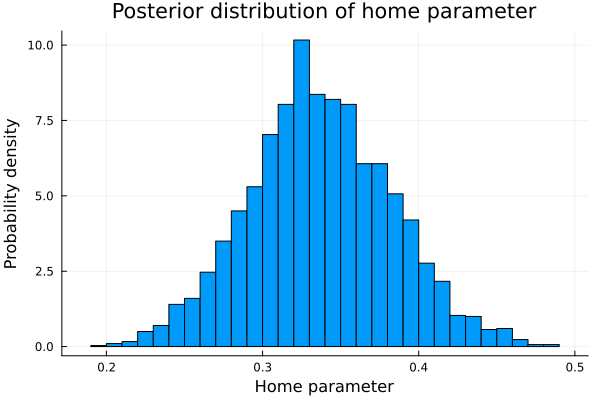
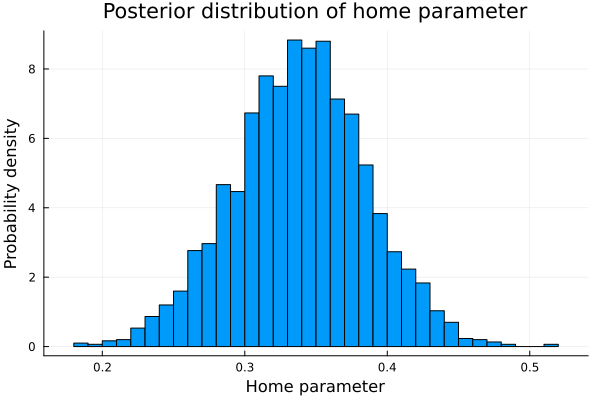
Resolve github issue #144

diff --git a/docs/football-simulation.html b/docs/football-simulation.html
@@ -462,7 +462,7 @@ subtract the average of all the attack and defence powers from each one. In this
 <div class="sourceCode" id="cb9"><pre class="sourceCode julia"><code class="sourceCode julia"><span id="cb9-1"><a href="football-simulation.html#cb9-1" aria-hidden="true" tabindex="-1"></a><span class="pp">@model</span> <span class="kw">function</span> <span class="fu">football_matches</span>(home_teams, away_teams, score_home, score_away, teams)</span>
 <span id="cb9-2"><a href="football-simulation.html#cb9-2" aria-hidden="true" tabindex="-1"></a>    <span class="co"># Hyper priors</span></span>
 <span id="cb9-3"><a href="football-simulation.html#cb9-3" aria-hidden="true" tabindex="-1"></a>    σatt <span class="op">~</span> <span class="fu">Exponential</span>(<span class="fl">1</span>)</span>
-<span id="cb9-4"><a href="football-simulation.html#cb9-4" aria-hidden="true" tabindex="-1"></a>    σdeff <span class="op">~</span> <span class="fu">Exponential</span>(<span class="fl">1</span>)</span>
+<span id="cb9-4"><a href="football-simulation.html#cb9-4" aria-hidden="true" tabindex="-1"></a>    σdef <span class="op">~</span> <span class="fu">Exponential</span>(<span class="fl">1</span>)</span>
 <span id="cb9-5"><a href="football-simulation.html#cb9-5" aria-hidden="true" tabindex="-1"></a>    μatt <span class="op">~</span> <span class="fu">Normal</span>(<span class="fl">0</span>, <span class="fl">0.1</span>)</span>
 <span id="cb9-6"><a href="football-simulation.html#cb9-6" aria-hidden="true" tabindex="-1"></a>    μdef <span class="op">~</span> <span class="fu">Normal</span>(<span class="fl">0</span>, <span class="fl">0.1</span>)</span>
 <span id="cb9-7"><a href="football-simulation.html#cb9-7" aria-hidden="true" tabindex="-1"></a>    </span>
@@ -470,7 +470,7 @@ subtract the average of all the attack and defence powers from each one. In this
 <span id="cb9-9"><a href="football-simulation.html#cb9-9" aria-hidden="true" tabindex="-1"></a>        </span>
 <span id="cb9-10"><a href="football-simulation.html#cb9-10" aria-hidden="true" tabindex="-1"></a>    <span class="co"># Team-specific effects </span></span>
 <span id="cb9-11"><a href="football-simulation.html#cb9-11" aria-hidden="true" tabindex="-1"></a>    att <span class="op">~</span> <span class="fu">filldist</span>(<span class="fu">Normal</span>(μatt, σatt), <span class="fu">length</span>(teams))</span>
-<span id="cb9-12"><a href="football-simulation.html#cb9-12" aria-hidden="true" tabindex="-1"></a>    def <span class="op">~</span> <span class="fu">filldist</span>(<span class="fu">Normal</span>(μatt, σdeff), <span class="fu">length</span>(teams))</span>
+<span id="cb9-12"><a href="football-simulation.html#cb9-12" aria-hidden="true" tabindex="-1"></a>    def <span class="op">~</span> <span class="fu">filldist</span>(<span class="fu">Normal</span>(μdef, σdef), <span class="fu">length</span>(teams))</span>
 <span id="cb9-13"><a href="football-simulation.html#cb9-13" aria-hidden="true" tabindex="-1"></a>    </span>
 <span id="cb9-14"><a href="football-simulation.html#cb9-14" aria-hidden="true" tabindex="-1"></a>    dict <span class="op">=</span> <span class="fu">Dict</span><span class="dt">{String, Int64}</span>()</span>
 <span id="cb9-15"><a href="football-simulation.html#cb9-15" aria-hidden="true" tabindex="-1"></a>    <span class="cf">for</span> (i, team) <span class="kw">in</span> <span class="fu">enumerate</span>(teams)</span>
@@ -494,7 +494,7 @@ subtract the average of all the attack and defence powers from each one. In this
 <span id="cb9-33"><a href="football-simulation.html#cb9-33" aria-hidden="true" tabindex="-1"></a>        score_away[i] <span class="op">~</span> <span class="fu">LogPoisson</span>(log_θ_away[i])</span>
 <span id="cb9-34"><a href="football-simulation.html#cb9-34" aria-hidden="true" tabindex="-1"></a>    <span class="cf">end</span></span>
 <span id="cb9-35"><a href="football-simulation.html#cb9-35" aria-hidden="true" tabindex="-1"></a><span class="kw">end</span></span></code></pre></div>
-<p>As you can see, the turing code is very clear and direct. In the first block we define our hyperpriors for the distributions of the
+<p>As you can see, the Turing code is very clear and direct. In the first block we define our hyperpriors for the distributions of the
 characteristics of the equipment.</p>
 <p>In the second one, we define the priors distributions that will encapsulate the information about the attack and defense powers of the teams.
 With the <em>filldist</em> function we are telling Turing that we need as many of these parameters as there are teams in the league <em>length(teams)</em></p>
@@ -531,7 +531,7 @@ performed in the 2017/2018 Premier League.</p>
 <span id="cb14-4"><a href="football-simulation.html#cb14-4" aria-hidden="true" tabindex="-1"></a><span class="fu">title!</span>(<span class="st">&quot;Posterior distribution of home parameter&quot;</span>)</span></code></pre></div>
 <p><img src="data_science_in_julia_for_hackers_files/figure-html/chap_7_plot_1-J1.png" /><!-- --></p>
 <div class="sourceCode" id="cb15"><pre class="sourceCode julia"><code class="sourceCode julia"><span id="cb15-1"><a href="football-simulation.html#cb15-1" aria-hidden="true" tabindex="-1"></a><span class="fu">mean</span>(post_home)</span></code></pre></div>
-<pre><code>## 0.3371169008958107</code></pre>
+<pre><code>## 0.3387993880195551</code></pre>
 <p>So, to include in the model the parameter home was a good idea. indeed being local provides a very big advantage.</p>
 <p>Beyond the fact that it is interesting to be able to quantify how much the location influences the scoring rate of the teams, including it in
 the analysis allow us to have better estimates of the defense and attack parameters of the teams. This is true because if it had not been
@@ -548,26 +548,26 @@ deforming the real measure of these.</p>
 entire array.</p>
 <div class="sourceCode" id="cb18"><pre class="sourceCode julia"><code class="sourceCode julia"><span id="cb18-1"><a href="football-simulation.html#cb18-1" aria-hidden="true" tabindex="-1"></a>teams_att</span></code></pre></div>
 <pre><code>## 20-element Vector{Any}:
-##  [-0.3969143283211489; -0.08460906811180033; … ; -0.4169215021017948; -0.1270425286239777;;]
-##  [-0.09917852958146217; -0.05082968777507396; … ; -0.017747657133871705; 0.07875819677734033;;]
-##  [-0.15091430497077216; -0.653760473186353; … ; -0.46026177013623404; -0.4784957762207069;;]
-##  [0.4535462781798289; 0.6403612020670159; … ; 0.4657342876309753; 0.3789386421380528;;]
-##  [0.27291173989090567; 0.40875795640878826; … ; 0.22819227815414495; 0.3647640313790336;;]
-##  [-0.16365468392187144; -0.14799166188500407; … ; -0.32076826811036213; -0.33551806842140663;;]
-##  [0.06098709008167405; -0.4695627831825239; … ; -0.12580671317418124; -0.055922663509319556;;]
-##  [-0.2844531722417455; -0.4705460832513177; … ; -0.32758323997293465; -0.3038001613088295;;]
-##  [0.49038867322748547; 0.23771206823781588; … ; 0.47181979338862806; 0.466652531159456;;]
-##  [-0.12711397070599184; 0.1450137718026582; … ; 0.11718058272685705; 0.1301990627975195;;]
-##  [0.74504256489495; 0.6707996012100144; … ; 0.4490885599682984; 0.6315918368624422;;]
-##  [0.3430722979209613; -0.06433166715125384; … ; 0.3573388308523431; 0.10831348915046943;;]
-##  [0.1911619585504367; 0.3466077234050029; … ; 0.07546636511696696; 0.2435052877109778;;]
-##  [0.29907799632580123; 0.4793039175753324; … ; -0.04345417626577312; 0.2851757108570739;;]
-##  [-0.25282355317386684; 0.1514739320572421; … ; 0.1295747434989584; -0.004441335630617063;;]
-##  [0.013982176397631885; -0.2278382162567963; … ; -0.042547470345612716; 0.04767776086231719;;]
-##  [-0.1870849476653736; 0.03652147101758588; … ; -0.18310360682128815; -0.054371560298548116;;]
-##  [-0.2571425519048038; -0.41475717531620354; … ; -0.18277115099094818; -0.3080170839450941;;]
-##  [-0.12442419078530578; -0.28579937484107226; … ; -0.40756237997237305; -0.8468914970830774;;]
-##  [-0.13045014763282242; -0.36045220935983435; … ; -0.2591202557177773; -0.2982963496788134;;]</code></pre>
+##  [-0.7793292779144027; -0.719767515864691; … ; -0.048951430861039216; -0.17934841508668142;;]
+##  [-0.2971511274122689; -0.08815820781214584; … ; -0.1584392861097645; -0.06653503053179821;;]
+##  [-0.8026745763773377; -0.7129466613418263; … ; -0.365382971686457; -0.5946032650621564;;]
+##  [0.3412520679342644; 0.4445819549204084; … ; 0.517316773112437; 0.6183366505318804;;]
+##  [0.17109717264705404; 0.41009904907647526; … ; 0.48376924500313623; 0.30286063109967515;;]
+##  [-0.14216531628668216; -0.35767773532469793; … ; 0.11731057206250822; -0.3185111413451413;;]
+##  [-0.5081933325424391; -0.5460843813611378; … ; 0.039828252330114; -0.170739102369511;;]
+##  [-0.6189456220060096; -0.5551898343848495; … ; -0.22174329930436093; -0.1510539204431025;;]
+##  [0.22734901061661011; 0.3620777806576383; … ; 0.43150525600756406; 0.4395625468407053;;]
+##  [-0.07743071556956452; -0.13303305187604275; … ; 0.1653934996255213; 0.12599520635143785;;]
+##  [0.6850354751356; 0.657011326520724; … ; 0.8332470577645241; 0.7072177180453905;;]
+##  [0.11073153492639115; -0.13206418983568255; … ; 0.10464845512498648; 0.44745143434289925;;]
+##  [-0.07738133343211227; 0.0321475939779678; … ; 0.4790226135844605; 0.17012305256546634;;]
+##  [0.19833252142329863; 0.21079401746675164; … ; 0.4954009679989974; 0.31502583150055585;;]
+##  [-0.29110031532175623; -0.19701526121240442; … ; 0.01957473781731085; -0.12406560598798032;;]
+##  [-0.3062013556975731; -0.16054748711429023; … ; 0.12335459902171869; -0.08993117333996316;;]
+##  [-0.33241362199696883; -0.15889112275774006; … ; -0.11424477889423534; 0.11782581914832518;;]
+##  [-0.580443703969774; -0.6258137256035375; … ; -0.25078264650853116; -0.010903355137482966;;]
+##  [-0.49711122672391683; -0.6389045670312493; … ; -0.011010630436153745; 0.08781761406628286;;]
+##  [-0.5991439624822221; -0.46938464297945903; … ; -0.05008327886304573; -0.3313564480151995;;]</code></pre>
 <p>For example, if we would like to see the posterior distribution of the attack parameter for Burnley:</p>
 <div class="sourceCode" id="cb20"><pre class="sourceCode julia"><code class="sourceCode julia"><span id="cb20-1"><a href="football-simulation.html#cb20-1" aria-hidden="true" tabindex="-1"></a>teams[<span class="fl">1</span>]</span></code></pre></div>
 <pre><code>## &quot;Burnley&quot;</code></pre>
@@ -577,7 +577,7 @@ entire array.</p>
 <span id="cb22-4"><a href="football-simulation.html#cb22-4" aria-hidden="true" tabindex="-1"></a><span class="fu">title!</span>(<span class="st">&quot;Posterior distribution of Burnley&#39;s attack power&quot;</span>)</span></code></pre></div>
 <p><img src="data_science_in_julia_for_hackers_files/figure-html/chap_7_plot_2-J1.png" /><!-- --></p>
 <div class="sourceCode" id="cb23"><pre class="sourceCode julia"><code class="sourceCode julia"><span id="cb23-1"><a href="football-simulation.html#cb23-1" aria-hidden="true" tabindex="-1"></a><span class="fu">mean</span>(teams_att[<span class="fl">1</span>])</span></code></pre></div>
-<pre><code>## -0.26154747610066187</code></pre>
+<pre><code>## -0.24813029632889114</code></pre>
 <p>Comparing it to the attacking power of Manchester City, champion of the Premier league:</p>
 <div class="sourceCode" id="cb25"><pre class="sourceCode julia"><code class="sourceCode julia"><span id="cb25-1"><a href="football-simulation.html#cb25-1" aria-hidden="true" tabindex="-1"></a>teams[<span class="fl">11</span>]</span></code></pre></div>
 <pre><code>## &quot;Manchester City&quot;</code></pre>
@@ -587,7 +587,7 @@ entire array.</p>
 <span id="cb27-4"><a href="football-simulation.html#cb27-4" aria-hidden="true" tabindex="-1"></a><span class="fu">title!</span>(<span class="st">&quot;Posterior distribution of Manchester City&#39;s attack power&quot;</span>)</span></code></pre></div>
 <p><img src="data_science_in_julia_for_hackers_files/figure-html/chap_7_plot_3-J1.png" /><!-- --></p>
 <div class="sourceCode" id="cb28"><pre class="sourceCode julia"><code class="sourceCode julia"><span id="cb28-1"><a href="football-simulation.html#cb28-1" aria-hidden="true" tabindex="-1"></a><span class="fu">mean</span>(teams_att[<span class="fl">11</span>])</span></code></pre></div>
-<pre><code>## 0.7415779640195597</code></pre>
+<pre><code>## 0.7458393680208553</code></pre>
 <p>When comparing the league champion against a mid-table team, we can clearly see the superiority in attack. For now, it seems that the inference
 comes in handy.</p>
 <p>Let’s try now to have an overview of the attacking powers of each team. To do this, just take the average of each and plot it next to the
@@ -613,12 +613,12 @@ standard deviation</p>
 ##  &quot;Swa&quot;
 ##  &quot;Wba&quot;
 ##  &quot;Bha&quot;
-##  &quot;Bur&quot;
 ##  &quot;Stk&quot;
+##  &quot;Bur&quot;
 ##  &quot;Sou&quot;
 ##  &quot;New&quot;
-##  &quot;Eve&quot;
 ##  &quot;Wat&quot;
+##  &quot;Eve&quot;
 ##  &quot;Cry&quot;
 ##  &quot;Bou&quot;
 ##  &quot;Whu&quot;
@@ -808,29 +808,29 @@ the Premier League that year while the Liverpool came only fourth. But let stop 
 <p>Well, the first one is the simplest. It just simulates matches with a specific set of attack, defense and location parameters. So we have
 the parameters that define the Poisson´s rate parameters “<span class="math inline">\(θ\)</span>” fixed (here we have to remember that every match is a sample from the two <span class="math inline">\(LogPoisson\)</span> distributions, each one modelating each teams score in a given match). And it simulates as many matches as the <span class="math inline">\(n_{matches}\)</span> parameter indicates in order to get a broad sampling of the two poisson distributions, that is, to have a good sampling of possible match results with those fixed parameters. That way we can obtain, given those parameters, which are the most likely results to occur. Lets take the parameter´s approximate mean (you can check them in the histograms of above) as an example to see what happen :</p>
 <div class="sourceCode" id="cb50"><pre class="sourceCode julia"><code class="sourceCode julia"><span id="cb50-1"><a href="football-simulation.html#cb50-1" aria-hidden="true" tabindex="-1"></a><span class="fu">mean</span>(mci_att_post)</span></code></pre></div>
-<pre><code>## 0.7415779640195597</code></pre>
+<pre><code>## 0.7458393680208553</code></pre>
 <div class="sourceCode" id="cb52"><pre class="sourceCode julia"><code class="sourceCode julia"><span id="cb52-1"><a href="football-simulation.html#cb52-1" aria-hidden="true" tabindex="-1"></a><span class="fu">simulate_matches_</span>(<span class="fl">0.75</span>, <span class="op">-</span><span class="fl">0.35</span>, <span class="fl">0.55</span>, <span class="op">-</span><span class="fl">0.2</span>, <span class="fl">0.33</span>, <span class="fl">1000</span>, <span class="fl">2</span>)</span></code></pre></div>
 <pre><code>## 1000-element Vector{Tuple{Int64, Int64}}:
-##  (0, 2)
-##  (2, 3)
-##  (2, 4)
-##  (0, 1)
-##  (0, 1)
 ##  (1, 2)
-##  (2, 3)
-##  (4, 3)
-##  (1, 1)
+##  (2, 0)
+##  (3, 5)
+##  (1, 3)
+##  (2, 2)
 ##  (3, 1)
-##  ⋮
-##  (4, 2)
-##  (3, 1)
-##  (1, 1)
-##  (2, 4)
-##  (0, 3)
+##  (3, 4)
+##  (0, 6)
 ##  (1, 0)
-##  (3, 2)
-##  (4, 5)
-##  (1, 0)</code></pre>
+##  (1, 4)
+##  ⋮
+##  (3, 1)
+##  (1, 2)
+##  (0, 0)
+##  (3, 1)
+##  (1, 1)
+##  (0, 1)
+##  (0, 2)
+##  (1, 2)
+##  (2, 2)</code></pre>
 <p>As you can see, we just generated 1000 simulated matches with an specific set of fix parameters. The “2” is just indicating that the liverpool
 (second team) is local. But as good bayesians that we are, we don´t want to use only the parameters mean, we want to use the hole distribution.
 And that´s what the second function is doing: It takes each parameter distribution as input and generate 1000 simulations for each posterior
@@ -844,7 +844,7 @@ the simulation. Does it makes sense?</p>
 in this case, is going to divide all positions by 3,000,000.</p>
 <p>So, lets see it in action!</p>
 <div class="sourceCode" id="cb54"><pre class="sourceCode julia"><code class="sourceCode julia"><span id="cb54-1"><a href="football-simulation.html#cb54-1" aria-hidden="true" tabindex="-1"></a>mci_as_home_simulations, liv_as_home_simulations <span class="op">=</span> <span class="fu">simulate_matches</span>(mci_att_post, mci_def_post, liv_att_post, liv_def_post, post_home, <span class="fl">1000</span>)</span></code></pre></div>
-<pre><code>## ([0.031761000000000005 0.03267866666666667 … 0.0 0.0; 0.06620066666666667 0.07072966666666668 … 3.3333333333333335e-7 0.0; … ; 0.0 0.0 … 0.0 0.0; 0.0 0.0 … 0.0 0.0], [0.03839033333333334 0.05491366666666667 … 3.3333333333333335e-7 0.0; 0.05865766666666667 0.08751666666666667 … 3.3333333333333335e-7 0.0; … ; 1.0000000000000002e-6 1.6666666666666667e-6 … 0.0 0.0; 3.3333333333333335e-7 3.3333333333333335e-7 … 0.0 0.0])</code></pre>
+<pre><code>## ([0.029232666666666667 0.031182 … 0.0 0.0; 0.06397133333333334 0.07060133333333334 … 0.0 0.0; … ; 3.3333333333333335e-7 0.0 … 0.0 0.0; 3.3333333333333335e-7 3.3333333333333335e-7 … 0.0 0.0], [0.035700333333333334 0.05327566666666667 … 3.3333333333333335e-7 0.0; 0.057098 0.08784700000000001 … 3.3333333333333335e-7 0.0; … ; 0.0 0.0 … 0.0 0.0; 3.3333333333333335e-7 0.0 … 0.0 0.0])</code></pre>
 <p>Looking those matrices could be not as enlightening as we wanted to. A good way to fix this is graphing them with a heatmap.</p>
 <div class="sourceCode" id="cb56"><pre class="sourceCode julia"><code class="sourceCode julia"><span id="cb56-1"><a href="football-simulation.html#cb56-1" aria-hidden="true" tabindex="-1"></a><span class="kw">function</span> <span class="fu">match_heatmaps</span>(matrix_t1_as_home, matrix_t2_as_home, team1_name<span class="op">=</span><span class="st">&quot;Team 1&quot;</span>, team2_name<span class="op">=</span><span class="st">&quot;Team 2&quot;</span>)    </span>
 <span id="cb56-2"><a href="football-simulation.html#cb56-2" aria-hidden="true" tabindex="-1"></a>    <span class="fu">gr</span>()   </span>
@@ -893,26 +893,26 @@ in this case, is going to divide all positions by 3,000,000.</p>
 <span id="cb59-19"><a href="football-simulation.html#cb59-19" aria-hidden="true" tabindex="-1"></a><span class="kw">end</span></span></code></pre></div>
 <pre><code>## win_and_lose_probability (generic function with 1 method)</code></pre>
 <div class="sourceCode" id="cb61"><pre class="sourceCode julia"><code class="sourceCode julia"><span id="cb61-1"><a href="football-simulation.html#cb61-1" aria-hidden="true" tabindex="-1"></a><span class="fu">win_and_lose_probability</span>(liv_as_home_simulations)</span></code></pre></div>
-<pre><code>## (0.4077013333333333, 0.37130399999999975, 0.2209946666666667)</code></pre>
+<pre><code>## (0.409695, 0.37085399999999985, 0.219451)</code></pre>
 <div class="sourceCode" id="cb63"><pre class="sourceCode julia"><code class="sourceCode julia"><span id="cb63-1"><a href="football-simulation.html#cb63-1" aria-hidden="true" tabindex="-1"></a><span class="fu">win_and_lose_probability</span>(mci_as_home_simulations)</span></code></pre></div>
-<pre><code>## (0.6517250000000009, 0.17085233333333336, 0.17742266666666667)</code></pre>
+<pre><code>## (0.6554833333333339, 0.16917566666666664, 0.17534100000000002)</code></pre>
 <p>So the probability of winning for the Manchester City were 0.41 (or 41%) in the first match of the quarters final, with Liverpool as home, 0.37
 for the Liverpool and 0.22 probability of a draw. In the second, with Manchester City as home, the chances were 0.65, 0.17 and 0.18 respectively.</p>
 <p>We also can ask for the probability of a specific score:</p>
 <div class="sourceCode" id="cb65"><pre class="sourceCode julia"><code class="sourceCode julia"><span id="cb65-1"><a href="football-simulation.html#cb65-1" aria-hidden="true" tabindex="-1"></a><span class="fu">get_score_probability</span>(score1<span class="op">::</span><span class="dt">Int64</span>, score2<span class="op">::</span><span class="dt">Int64</span>, simulation) <span class="op">=</span> simulation[score1<span class="op">+</span><span class="fl">1</span>, score2<span class="op">+</span><span class="fl">1</span>]</span></code></pre></div>
 <pre><code>## get_score_probability (generic function with 1 method)</code></pre>
 <div class="sourceCode" id="cb67"><pre class="sourceCode julia"><code class="sourceCode julia"><span id="cb67-1"><a href="football-simulation.html#cb67-1" aria-hidden="true" tabindex="-1"></a><span class="fu">get_score_probability</span>(<span class="fl">1</span>, <span class="fl">1</span>, liv_as_home_simulations)</span></code></pre></div>
-<pre><code>## 0.08751666666666667</code></pre>
+<pre><code>## 0.08784700000000001</code></pre>
 <div class="sourceCode" id="cb69"><pre class="sourceCode julia"><code class="sourceCode julia"><span id="cb69-1"><a href="football-simulation.html#cb69-1" aria-hidden="true" tabindex="-1"></a><span class="fu">get_score_probability</span>(<span class="fl">2</span>, <span class="fl">1</span>, mci_as_home_simulations)</span></code></pre></div>
-<pre><code>## 0.08207500000000001</code></pre>
+<pre><code>## 0.083959</code></pre>
 <p>So the most possible outcomes accumulates around 8-9% of probability</p>
 <p>What really happened wasn’t expected. The Liverpool won 3-0 being home in the first round of the quarters final. And then Liverpool
 won 2-1 in Manchester´s estadium! It was really unexpected. The Manchester was the favorite by far, the probability was on his side,
 and still could not beat Liverpool.</p>
 <div class="sourceCode" id="cb71"><pre class="sourceCode julia"><code class="sourceCode julia"><span id="cb71-1"><a href="football-simulation.html#cb71-1" aria-hidden="true" tabindex="-1"></a><span class="fu">get_score_probability</span>(<span class="fl">0</span>, <span class="fl">3</span>, liv_as_home_simulations)</span></code></pre></div>
-<pre><code>## 0.023357000000000003</code></pre>
+<pre><code>## 0.023810666666666667</code></pre>
 <div class="sourceCode" id="cb73"><pre class="sourceCode julia"><code class="sourceCode julia"><span id="cb73-1"><a href="football-simulation.html#cb73-1" aria-hidden="true" tabindex="-1"></a><span class="fu">get_score_probability</span>(<span class="fl">1</span>, <span class="fl">2</span>, mci_as_home_simulations)</span></code></pre></div>
-<pre><code>## 0.04106966666666667</code></pre>
+<pre><code>## 0.04142866666666667</code></pre>
 <p>Still, the model assigns some probability to those results. Here is the information, then, you have to decide what to do with it.</p>
 <p>As data scientist that we are, our labor is to came up with possible solutions to a problem, try it, have fun, and learn from it in order to
 be able to came up with better solutions. It is a very good practice to constructively criticize the models that we develop. So, can you think
